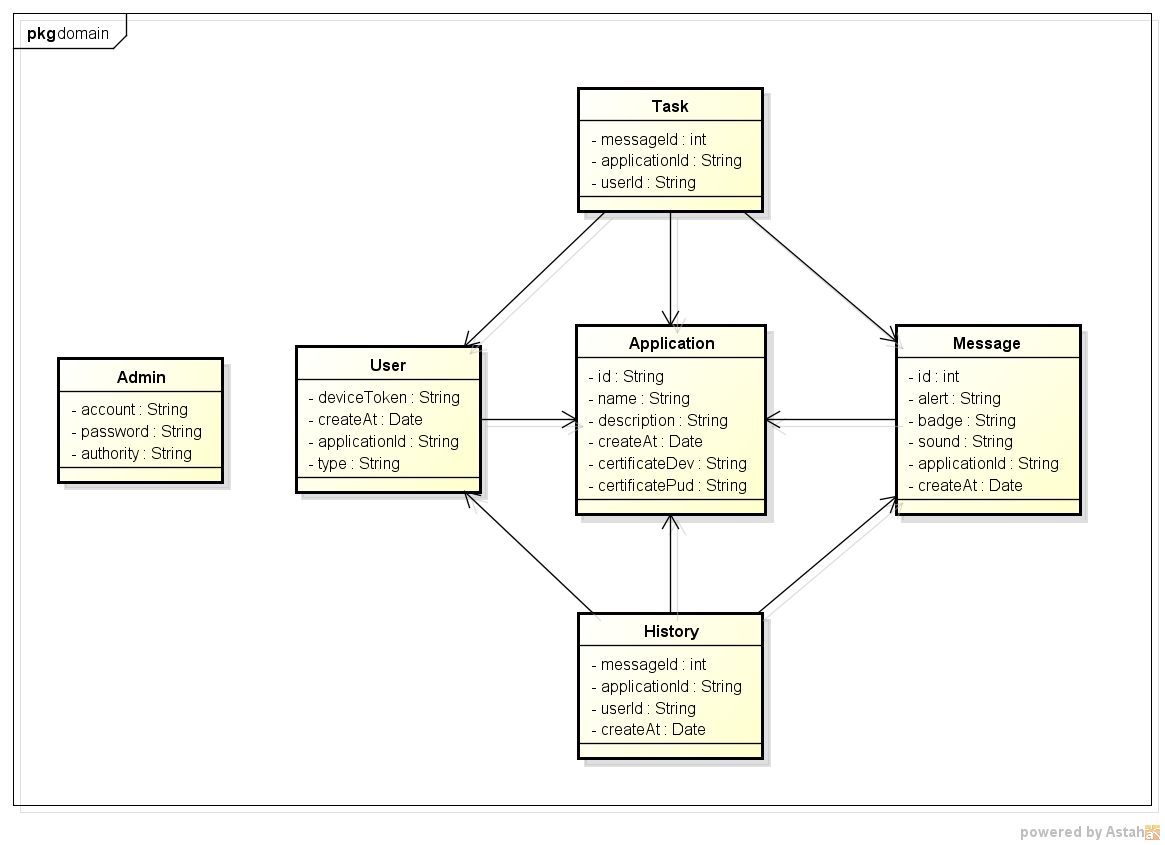
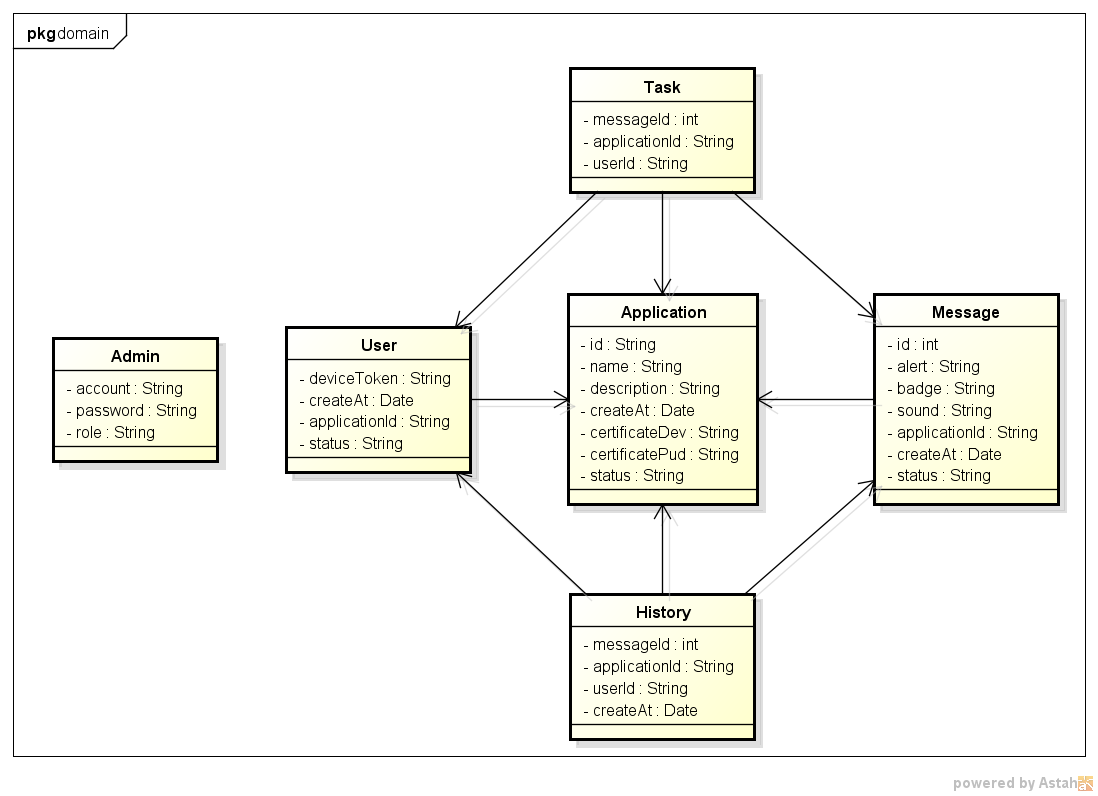
Fix domain, add subscribe service
Fix domain
Add subscribe service

diff --git a/application/controllers/admin/index.html b/application/controllers/admin/index.html
@@ -1,10 +1,2 @@
-<html>
-<head>
-	<title>403 Forbidden</title>
-</head>
-<body>
-
-<p>Directory access is forbidden.</p>
-
-</body>
-</html>
+<!DOCTYPE html>
+<html><head><meta charset="utf-8"/><title>403 Forbidden</title></head><body><p>Directory access is forbidden.</p></body></html>

diff --git a/application/controllers/service.php b/application/controllers/service.php
@@ -2,26 +2,18 @@
 
 defined('BASEPATH') or die('Access deny!');
 
-class Sub extends CI_Controller {
+class Service extends CI_Controller {
     
     public function __construct() {
         parent::__construct();
 		$this->load->model('UserModel');
     }
-	
+    
 	public function index() {
 		show_404();
 	}
-	
-	public function dev($appId = '', $deviceToken = '') {
-		$this->action($appId, $deviceToken, UserModel::STATUS_TYPE_DEV);
-	}
     
-	public function pro($appId = '', $deviceToken = '') {
-		$this->action($appId, $deviceToken);
-	}
-	
-	private function action($appId = '', $deviceToken = '', $status = UserModel::STATUS_TYPE_PRO) {
+    public function sub($appId = '', $deviceToken = '', $status = UserModel::STATUS_TYPE_PRO) {
 		// Find the user
 		$resultSet = $this->UserModel->find(array(
 			'deviceToken' => $deviceToken,
@@ -35,9 +27,8 @@ class Sub extends CI_Controller {
 			$this->UserModel->status = $status;
 			$this->UserModel->aid = $appId;
 			$this->UserModel->add();
-			return array(
-				'msg' => 'success to register',
-			);
+			echo 'success to register';
+			return;
 		}
 		
 		$user = $resultSet[0];
@@ -50,14 +41,18 @@ class Sub extends CI_Controller {
 			$this->UserModel->aid = $user->aid;
 			$this->UserModel->status = UserModel::STATUS_TYPE_PRO;
 			$this->UserModel->update($user);
-			return array(
-				'msg' => 'success to update',
-			);
 		}
 		
 		// Do nothing
-		return array(
-			'msg' => 'already in used',
-		);
-	}
+		echo 'success to update';
+		return;
+    }
+    
+    public function unsub($appId = '', $deviceToken = '') {
+        if (! empty($appId) and ! empty($deviceToken)) {
+            echo $appId;
+            echo '<hr/>';
+            echo $deviceToken;
+        }
+    }
 }

diff --git a/application/controllers/service/service.php b/application/controllers/service/service.php
@@ -6,17 +6,49 @@ class Service extends CI_Controller {
     
     public function __construct() {
         parent::__construct();
+		$this->load->model('UserModel');
     }
     
 	public function index() {
+		//show_404();
 	}
     
-    public function sub($appId = '', $deviceToken = '') {
-        if (! empty($appId) and ! empty($deviceToken)) {
-            echo $appId;
-            echo '<hr/>';
-            echo $deviceToken;
-        }
+    public function sub($appId = '', $deviceToken = '', $status = UserModel::STATUS_TYPE_PRO) {
+		echo $appId, $deviceToken, $status;
+		/*
+		// Find the user
+		$resultSet = $this->UserModel->find(array(
+			'deviceToken' => $deviceToken,
+			'aid' => $appId,
+		));
+		
+		// Check the user
+		if (empty($resultSet)) {
+			// Add a new user
+			$this->UserModel->deviceToken = $deviceToken;
+			$this->UserModel->status = $status;
+			$this->UserModel->aid = $appId;
+			$this->UserModel->add();
+			echo 'success to register';
+			return;
+		}
+		
+		$user = $resultSet[0];
+		
+		// Check the status
+		if (UserModel::STATUS_TYPE_NIL == $user->status) {
+			// Update the status
+			$this->UserModel->deviceToken = $user->deviceToken;
+			$this->UserModel->createAt = $user->createAt;
+			$this->UserModel->aid = $user->aid;
+			$this->UserModel->status = UserModel::STATUS_TYPE_PRO;
+			$this->UserModel->update($user);
+		}
+		
+		// Do nothing
+		echo 'success to update';
+		return;
+		*/
     }
     
     public function unsub($appId = '', $deviceToken = '') {
@@ -26,6 +58,4 @@ class Service extends CI_Controller {
             echo $deviceToken;
         }
     }
-    
-    
 }

diff --git a/application/models/UserModel.php b/application/models/UserModel.php
@@ -6,14 +6,14 @@ require('BaseModel.php');
 
 class UserModel extends BaseModel {
     
-    const T_DEV = 'dev', T_PRO = 'pro', T_NIL = 'nil';
+    const STATUS_TYPE_DEV = 'dev', STATUS_TYPE_PRO = 'pro', STATUS_TYPE_NIL = 'nil';
     
     protected $table = 'user';
     protected $attr = array(
-        'deviceToken' => '',
-        'createAt' => '',
-        'applicationId' => '',
-        'type' => '',
+        'deviceToken' => null,
+        'createAt' => null,
+        'aid' => null,
+        'status' => null,
     );
     
     public function __construct() {
@@ -21,14 +21,9 @@ class UserModel extends BaseModel {
     }
     
     public function __set($key, $val) {
-        if ('type' == $key and T_DEV != $val and T_PRO != $val and T_NIL != $val) {
-            show_error(__CLASS__.' attribute called "type" must be a value of dev, pro, nil. you set "type" with "'.$val.'"');
+        if ('status' == $key and UserModel::STATUS_TYPE_DEV != $val and UserModel::STATUS_TYPE_PRO != $val and UserModel::STATUS_TYPE_NIL != $val) {
+            show_error(__CLASS__.' attribute called "status" must be a value of dev, pro, nil. you set "status" with "'.$val.'"');
         }
         parent::__set($key, $val);
-        if (isset($this->attr[$key])) {
-            $this->attr[$key] = $val;
-            return;
-        }
-        show_error(__CLASS__.' has no such attribute called '.$key);
     }
 }

diff --git a/application/views/header.php b/application/views/header.php
@@ -5,8 +5,17 @@
         <title><?php echo isset($title) ? $title : 'Default'; ?></title>
         <link type="text/css" rel="stylesheet" href="<?php echo base_url('resource/bootstrap/css/bootstrap.min.css'); ?>" />
         <link type="text/css" rel="stylesheet" href="<?php echo base_url('resource/bootstrap/css/bootstrap-responsive.min.css'); ?>" />
-        <link type="text/css" rel="stylesheet" href="<?php echo base_url('resource/style/page.css'); ?>" />
+        <?php if (isset($styles)) : ?>
+        <?php foreach ($styles as $style) : ?>
+        <link type="text/css" rel="stylesheet" href="<?php echo base_url('resource/style/'.$style); ?>" />
+        <?php endforeach; ?>
+        <?php endif; ?>
         <script type="text/javascript" src="<?php echo base_url('resource/jquery/jquery-1.9.1.min.js'); ?>"></script>
         <script type="text/javascript" src="<?php echo base_url('resource/bootstrap/js/bootstrap.min.js'); ?>"></script>
+        <?php if (isset($scripts)) : ?>
+        <?php foreach ($scripts as $script) : ?>
+        <script type="text/javascript" src="<?php echo base_url('resource/script/'.$script); ?>"></script>
+        <?php endforeach; ?>
+        <?php endif; ?>
     </head>
     <body>

diff --git a/application/models/MsgModel.php b/application/models/MsgModel.php
@@ -6,17 +6,31 @@ require('BaseModel.php');
 
 class MsgModel extends BaseModel {
     
+    const STATUS_TYPE_PREPARE = 'prepare',
+    STATUS_TYPE_READY = 'ready',
+    STATUS_TYPE_SENDING = 'sending',
+    STATUS_TYPE_SENT = 'sent',
+    STATUS_TYPE_CANCEL = 'cancel';
+    
     protected $table = 'message';
     protected $attr = array(
-        'id' => '',
-        'alert' => '',
-        'badge' => '',
-        'sound' => '',
-        'aid' => '',
-        'createAt' => '',
+        'id' => null,
+        'alert' => null,
+        'badge' => null,
+        'sound' => null,
+        'aid' => null,
+        'createAt' => null,
+        'status' => null,
     );
     
     public function __construct() {
         parent::__construct();
+    }
+    
+    public function __set($key, $val) {
+        if ('status' == $key and STATUS_TYPE_PREPARE != $val and STATUS_TYPE_READY != $val and STATUS_TYPE_SENDING != $val and STATUS_TYPE_SENT != $val and STATUS_TYPE_CANCEL != $val) {
+            show_error(__CLASS__.' attribute called "status" must be a value of (prepare, ready, sending, sent, cancel). you set "status" with "'.$val.'"');
+        }
+        parent::__set($key, $val);
     }
 }

diff --git a/application/models/AppModel.php b/application/models/AppModel.php
@@ -6,17 +6,27 @@ require('BaseModel.php');
 
 class AppModel extends BaseModel {
     
+    const STATUS_TYPE_DEV = 'dev', STATUS_TYPE_PRO = 'pro', STATUS_TYPE_NIL = 'nil';
+    
     protected $table = 'application';
     protected $attr = array(
-        'id' => '',
-        'name' => '',
-        'description' => '',
-        'createAt' => '',
-        'caDev' => '',
-        'caPro' => '',
+        'id' => null,
+        'name' => null,
+        'description' => null,
+        'createAt' => null,
+        'caDev' => null,
+        'caPro' => null,
+        'status' => null,
     );
     
     public function __construct() {
         parent::__construct();
+    }
+    
+    public function __set($key, $val) {
+        if ('status' == $key and STATUS_TYPE_DEV != $val and STATUS_TYPE_PRO != $val and STATUS_TYPE_NIL != $val) {
+            show_error(__CLASS__.' attribute called "status" must be a value of dev, pro, nil. you set "status" with "'.$val.'"');
+        }
+        parent::__set($key, $val);
     }
 }

diff --git a/application/models/AdminModel.php b/application/models/AdminModel.php
@@ -6,14 +6,23 @@ require('BaseModel.php');
 
 class AdminModel extends BaseModel {
     
+    const ROLE_TYPE_FOUNDER = 'founder', ROLE_TYPE_MANAGER = 'manager', ROLE_TYPE_GUEST = 'guest';
+    
     protected $table = 'admin';
     protected $attr = array(
-        'account' => '',
-        'password' => '',
-        'authority' => '',
+        'account' => null,
+        'password' => null,
+        'role' => null,
     );
     
     public function __construct() {
         parent::__construct();
+    }
+    
+    public function __set($key, $val) {
+        if ('role' == $key and ROLE_TYPE_FOUNDER != $val and ROLE_TYPE_MANAGER != $val and ROLE_TYPE_GUEST != $val) {
+            show_error(__CLASS__.' attribute called "role" must be a value of (founder, manager, guest). you set "role" with "'.$val.'"');
+        }
+        parent::__set($key, $val);
     }
 }

diff --git a/application/models/BaseModel.php b/application/models/BaseModel.php
@@ -12,14 +12,14 @@ class BaseModel extends CI_Model {
     }
     
     public function __get($key) {
-        if (isset($this->attr[$key])) {
+        if (array_key_exists($key, $this->attr)) {
             return $this->attr[$key];
         }
         return parent::__get($key);
     }
     
     public function __set($key, $val) {
-        if (isset($this->attr[$key])) {
+        if (array_key_exists($key, $this->attr)) {
             $this->attr[$key] = $val;
             return;
         }

diff --git a/application/models/HistoryModel.php b/application/models/HistoryModel.php
@@ -1,0 +1,20 @@
+<?php
+
+defined('BASEPATH') or die('Access deny!');
+
+require('BaseModel.php');
+
+class HistoryModel extends BaseModel {
+    
+    protected $table = 'history';
+    protected $attr = array(
+        'aid' => null,
+        'uid' => null,
+        'mid' => null,
+        'createAt' => null,
+    );
+    
+    public function __construct() {
+        parent::__construct();
+    }
+}

diff --git a/application/models/TaskModel.php b/application/models/TaskModel.php
@@ -1,0 +1,19 @@
+<?php
+
+defined('BASEPATH') or die('Access deny!');
+
+require('BaseModel.php');
+
+class TaskModel extends BaseModel {
+    
+    protected $table = 'task';
+    protected $attr = array(
+        'aid' => null,
+        'uid' => null,
+        'mid' => null,
+    );
+    
+    public function __construct() {
+        parent::__construct();
+    }
+}

diff --git a/application/controllers/admin/login.php b/application/controllers/admin/login.php
@@ -68,7 +68,12 @@ class Login extends Base {
     }
     
     private function show($data = array()) {
-		$this->load->view('header');
+    	$this->load->view('header', array(
+			'title' => 'Login',
+			'styles' => array(
+				'page.css',
+			),
+		));
         $this->load->view('admin/login', $data);
 		$this->load->view('footer');
     }
